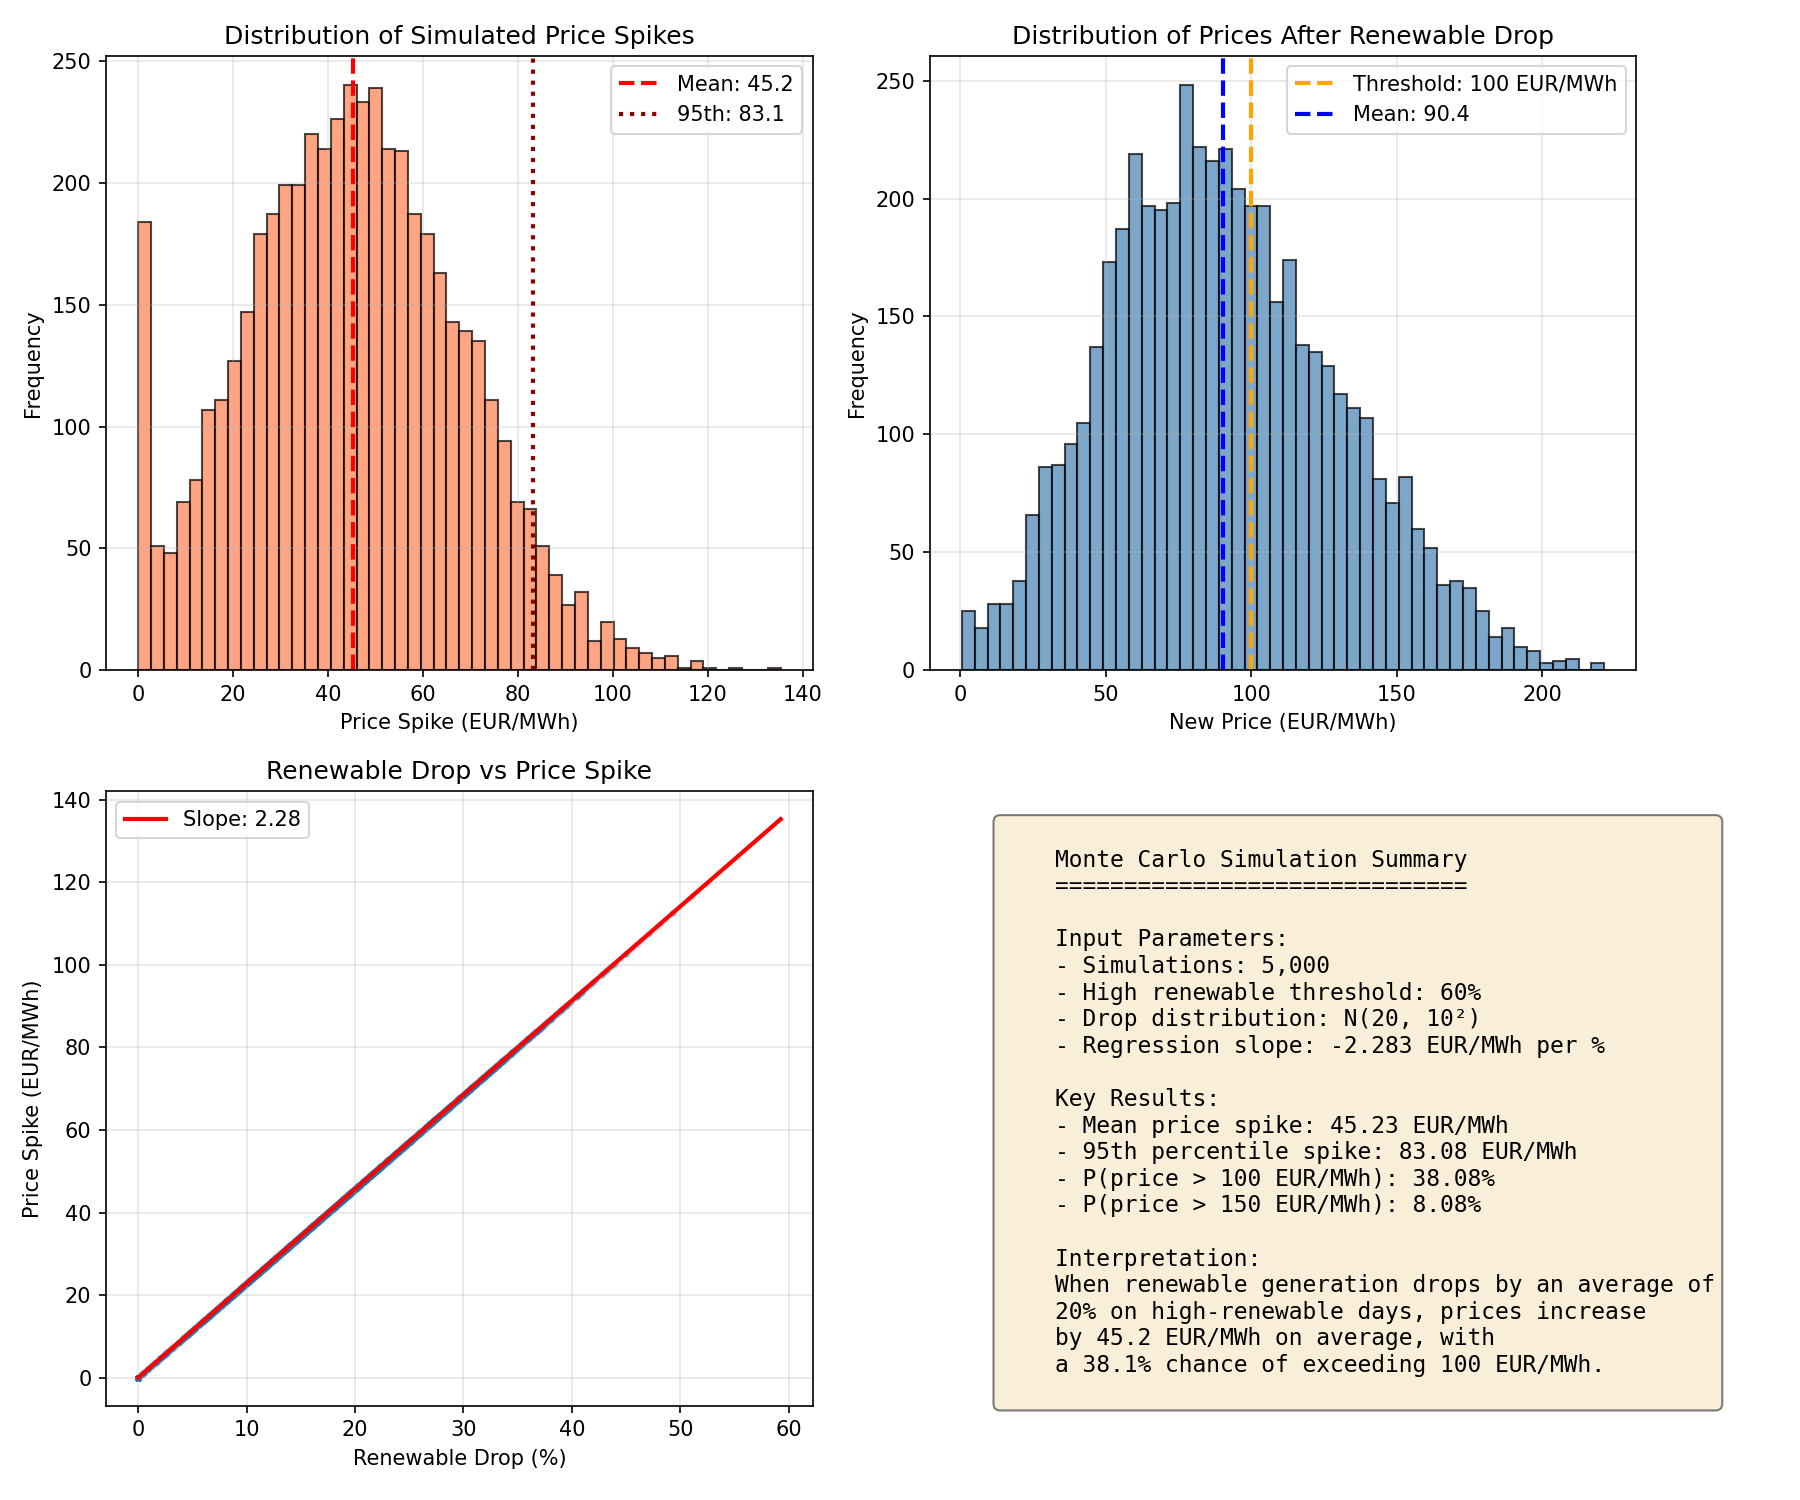
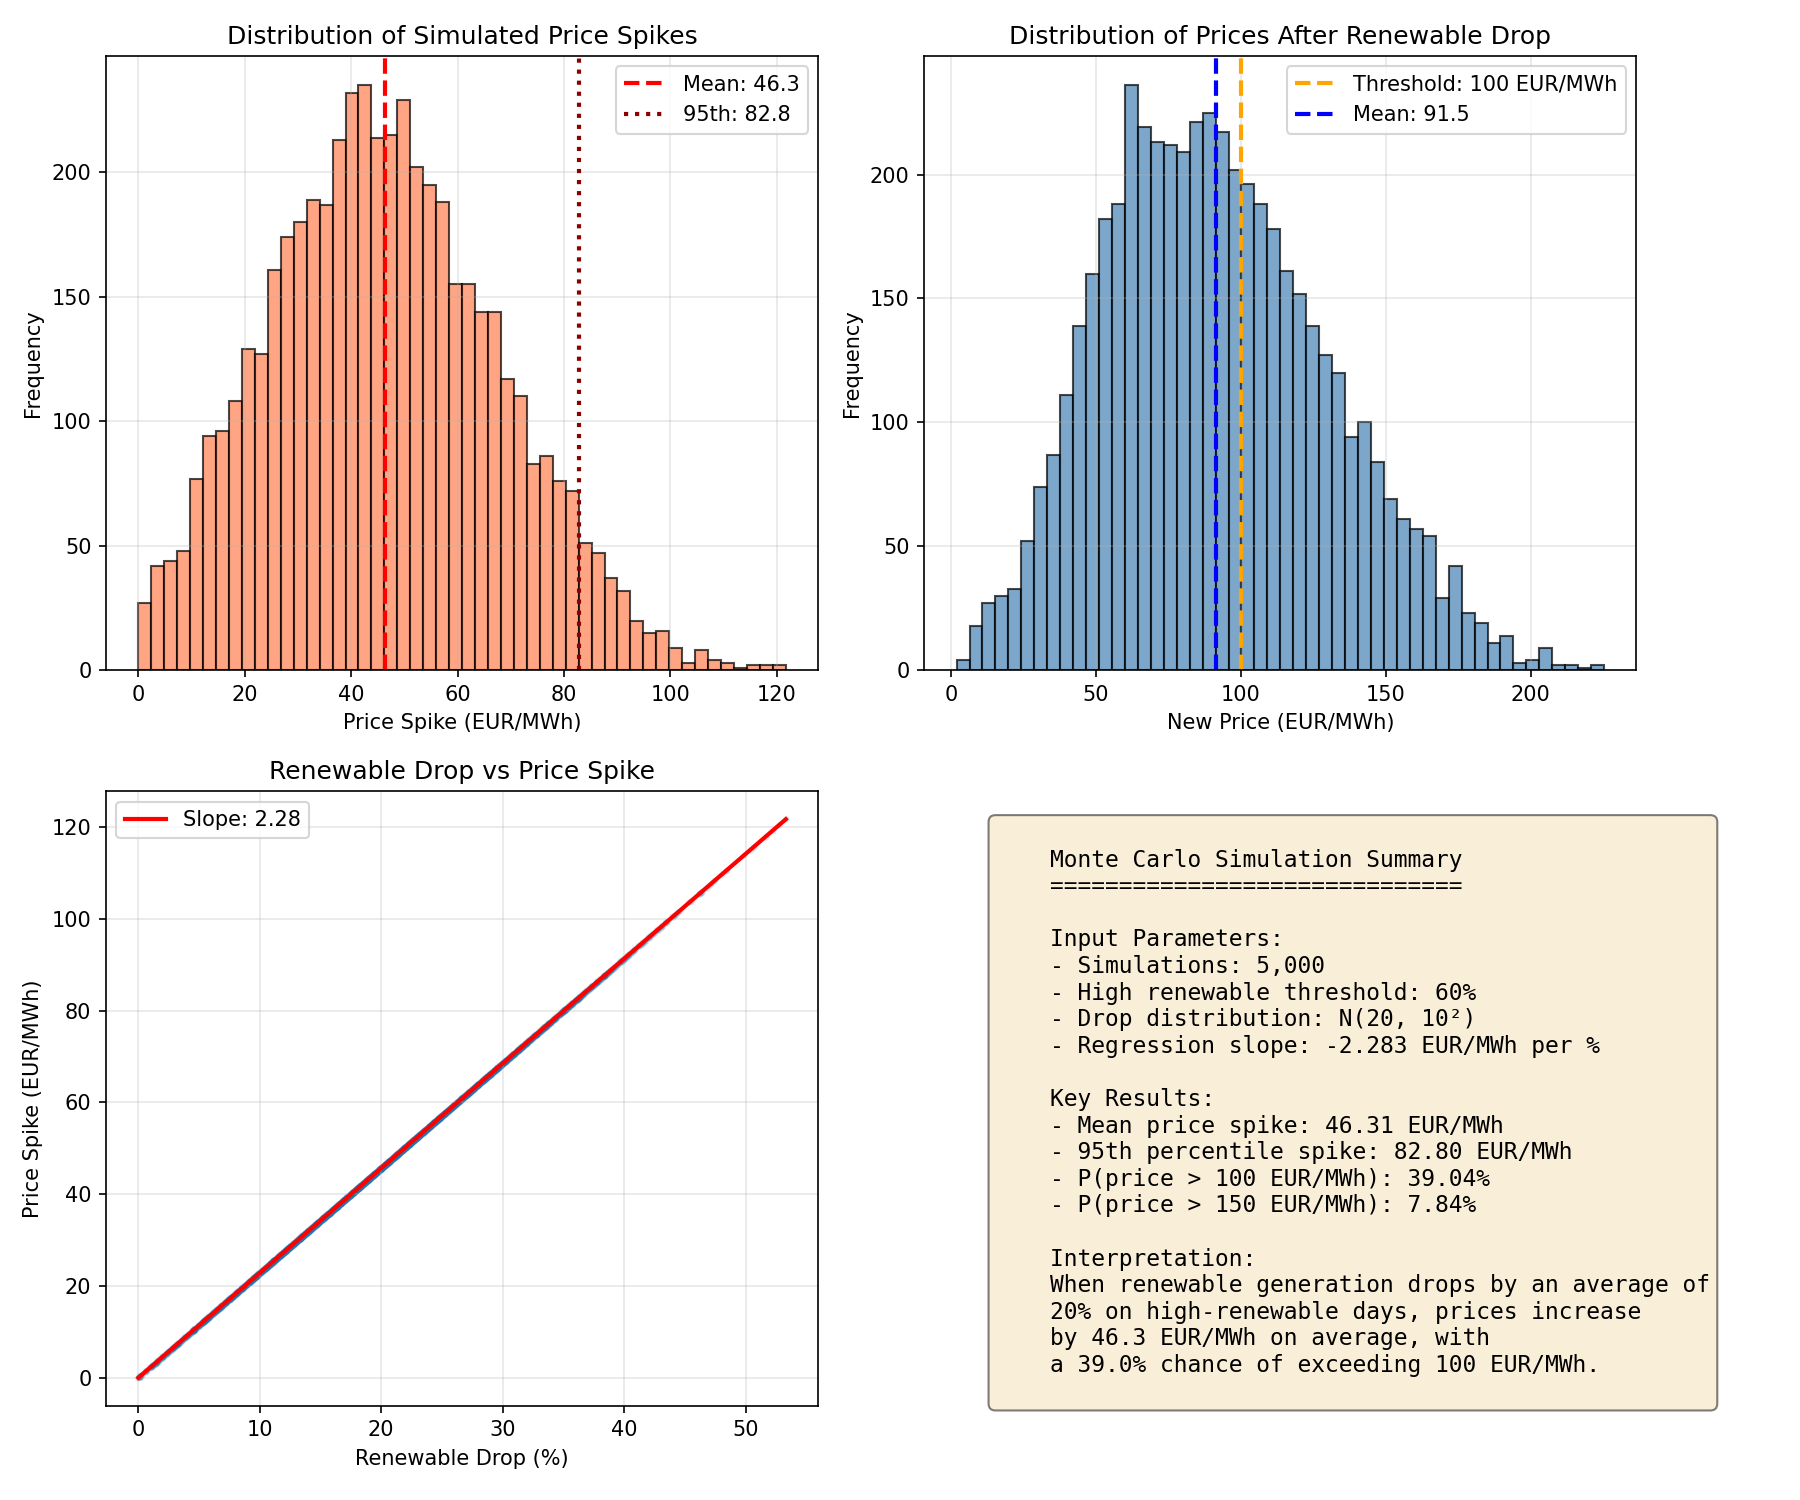
Updated Monte Carlo dsitribution to truncate ceross and negatives.

diff --git a/analysis.py b/analysis.py
@@ -15,6 +15,7 @@ import matplotlib.pyplot as plt
 import numpy as np
 import pandas as pd
 from scipy import stats
+from scipy.stats import truncnorm
 
 from utils import print_header
 
@@ -309,8 +310,11 @@ def monte_carlo_simulation(
     sampled_base_prices = base_prices[sample_indices]
     sampled_base_renewable = base_renewable[sample_indices]
 
-    # Generate random drops (clipped to avoid negative renewable share)
-    random_drops = np.random.normal(drop_mean, drop_std, n_simulations)
+    # Generate random drops using truncated normal (only positive values)
+    # Truncated normal: lower bound = 0, upper bound = inf (then clip to actual renewable share)
+    a = (0 - drop_mean) / drop_std  # Lower bound in standard normal units
+    b = np.inf  # No upper bound initially
+    random_drops = truncnorm.rvs(a, b, loc=drop_mean, scale=drop_std, size=n_simulations)
     random_drops = np.clip(random_drops, 0, sampled_base_renewable)  # Can't drop more than current share
 
     # Calculate price changes

diff --git a/README.md b/README.md
@@ -226,10 +226,12 @@ Subcommand options:
 
 ### Part 4: Monte Carlo Simulation
 - Filter high renewable days (≥60% share)
-- Simulate random drops: `Normal(mean=20%, std=10%)`
+- Simulate random drops using **truncated normal distribution** (mean=20%, std=10%, lower bound=0%)
 - Calculate: `new_price = base_price + (drop_pct × -coefficient)`
 - 5,000 simulation runs
 - Output: mean spike, 95th percentile, probability of extreme prices
+
+> **Note on distribution choice**: We use a truncated normal (bounded at 0) rather than a standard normal to model renewable drops. This avoids artificial spikes at zero caused by clipping negative samples, producing a more realistic distribution of price impacts.
 
 ---
 
